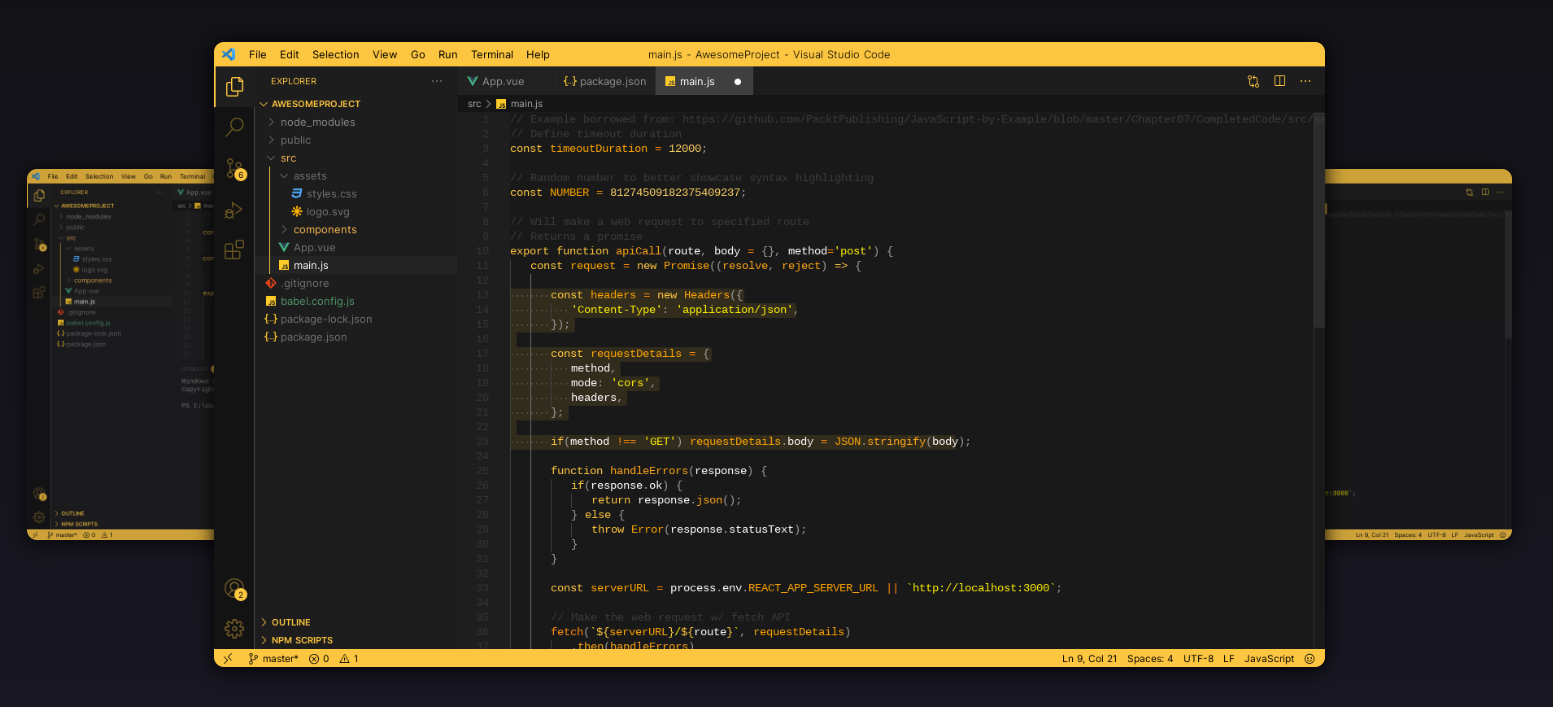
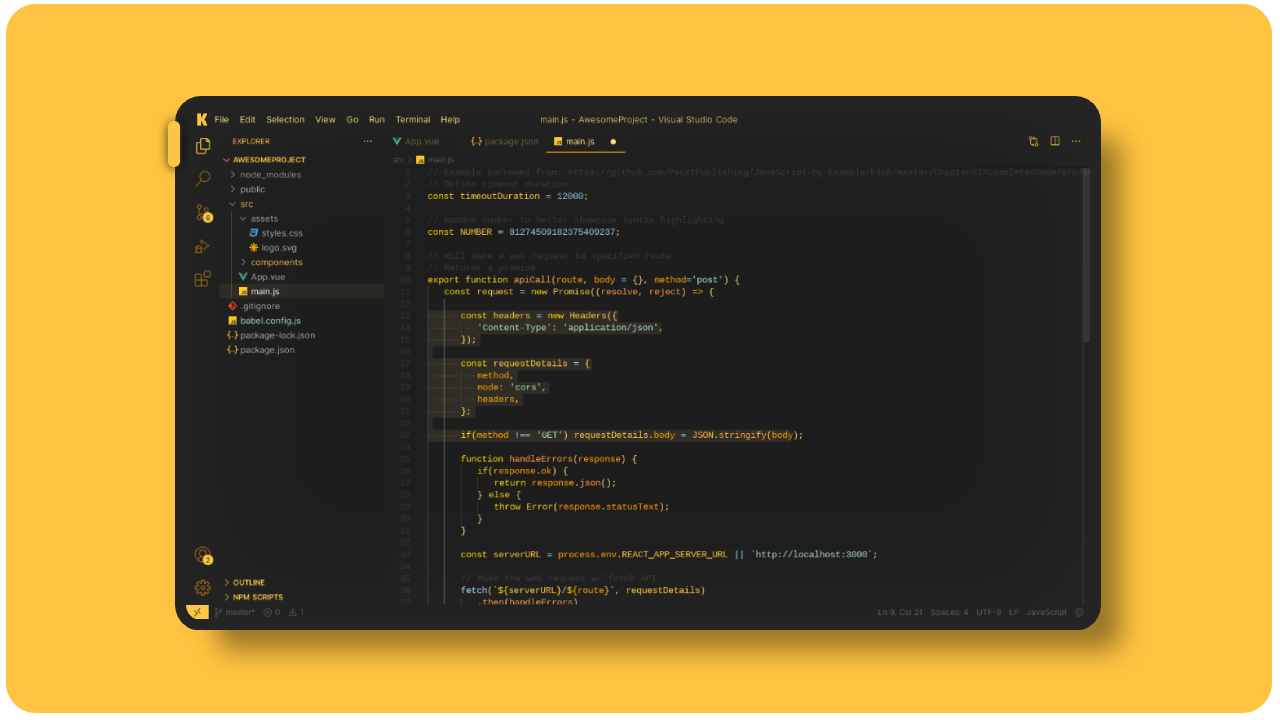
Update README.md
Update kaplan-dark.png
Update Footer

diff --git a/README.md b/README.md
@@ -20,10 +20,6 @@
 3. Search for "Kaplan Dark" and click on the "Install" button.
 4. Once installed, click on the gear icon and select "Kaplan Dark" from the Color Theme dropdown menu.
 
-<p align="center" style='padding:30px'>
-    <img src="kaplan.png"  width="24" height="24">
-</p>
-
 ## Feedback and Contributions
 
 Your feedback is highly appreciated! If you encounter any issues or have suggestions for improvement, please feel free to open an issue [here](https://github.com/abyadando/kaplan-theme-vscode/issues/new).
@@ -34,8 +30,10 @@ Contributions are also welcome! If you would like to contribute to the theme by 
 
 Kaplan Dark was created and is maintained by [abyadando ♘](https://github.com/abyadando).
 
-<p align="center" style='padding:30px'>
-    <img src="kaplan.png"  width="24" height="24">
+<p align="left" style='padding:30px'>
+    <span>
+        Thank you for choosing the <code>Kaplan Dark</code> theme to make your coding experience shine brighter than a supernova! May your bugs be minor, your code be elegant, and your coffee always be strong. Keep calm and code on, my friend! Remember, if all else fails, blame it on the monkeys typing away on our keyboards. Happy coding and may the  <img src="kaplan.png"  width="14" height="14"> Kaplan's debugging force be with you!
+    </span>
+   
 </p>
 
-#### Thank you for choosing the `Kaplan Dark` theme to make your coding experience shine brighter than a supernova! May your bugs be minor, your code be elegant, and your coffee always be strong. Keep calm and code on, my friend! Remember, if all else fails, blame it on the monkeys typing away on our keyboards. Happy coding and may the Kaplan's debugging force be with you!
